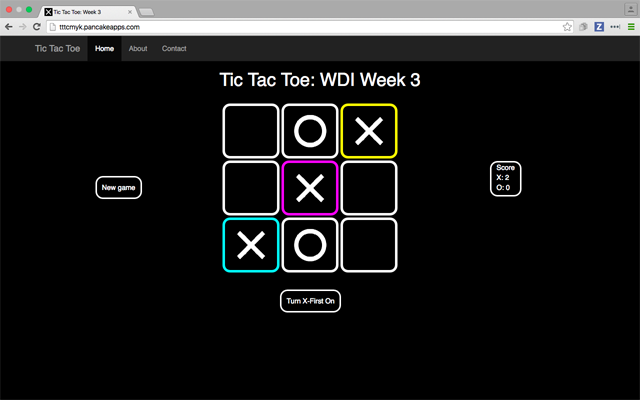
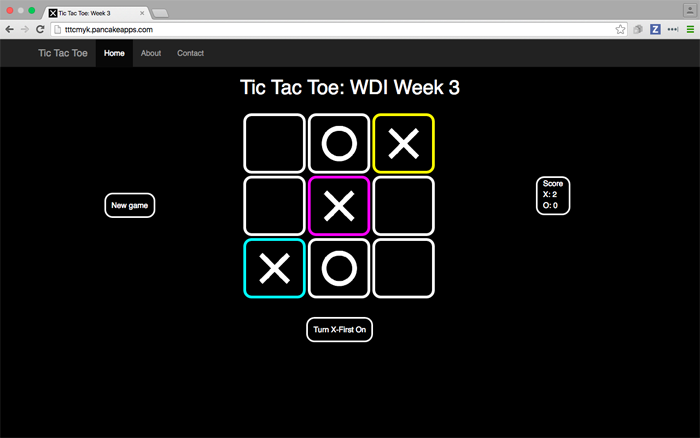
adding resized images and links

diff --git a/code.html b/code.html
@@ -43,7 +43,7 @@
     <div id="content" class="row col-lg-offset-3 col-md-offset-3 col-lg-9 col-md-9">
       <div class="col-lg-6 col-md-6 col-sm-12 col-xs-12">
         <a href="http://lastichecked.herokuapp.com/">
-          <img class="image" src="/images/lastichecked.png">
+          <img class="image" src="/images/med/lastichecked.png">
           <!-- <div class="coming_soon">
             <p class="in-progress-text">In Progress...</p>
           </div> -->
@@ -59,7 +59,7 @@
     <div id="content" class="row col-lg-offset-3 col-md-offset-3 col-lg-9 col-md-9">
       <div class="col-lg-6 col-md-6 col-sm-12 col-xs-12">
         <a href="https://w09wdiproj.herokuapp.com/">
-          <img class="image" src="/images/w09_wdiproj3.png">
+          <img class="image" src="/images/med/w09_wdiproj3.png">
         </a>
       </div>
 
@@ -74,7 +74,7 @@
     <div id="content" class="row col-lg-offset-3 col-md-offset-3 col-lg-9 col-md-9">
       <div class="col-lg-6 col-md-6 col-sm-12 col-xs-12">
         <a href="http://pantrydotio.herokuapp.com/">
-          <img class="image" src="/images/pantry.io.png">
+          <img class="image" src="/images/med/pantry.io.png">
         </a>
       </div>
 
@@ -87,7 +87,7 @@
     <div id="content" class="row col-lg-offset-3 col-md-offset-3 col-lg-9 col-md-9">
       <div class="col-lg-6 col-md-6 col-sm-12 col-xs-12">
         <a href="https://tttcmyk.pancakeapps.com/">
-          <img class="image" src="/images/tttcmyk.png">
+          <img class="image" src="/images/med/tttcmyk.png">
         </a>
       </div>
 
@@ -100,7 +100,7 @@
     <div id="content" class="row col-lg-offset-3 col-md-offset-3 col-lg-9 col-md-9">
       <div class="col-lg-6 col-md-6 col-sm-12 col-xs-12">
         <a href="http://www.lrngo.com/coolstuff">
-          <img class="image" src="/images/lrngo_landing_pages/othercoolstuff.png">
+          <img class="image" src="/images/lrngo_landing_pages/med/othercoolstuff.png">
         </a>
       </div>
 
